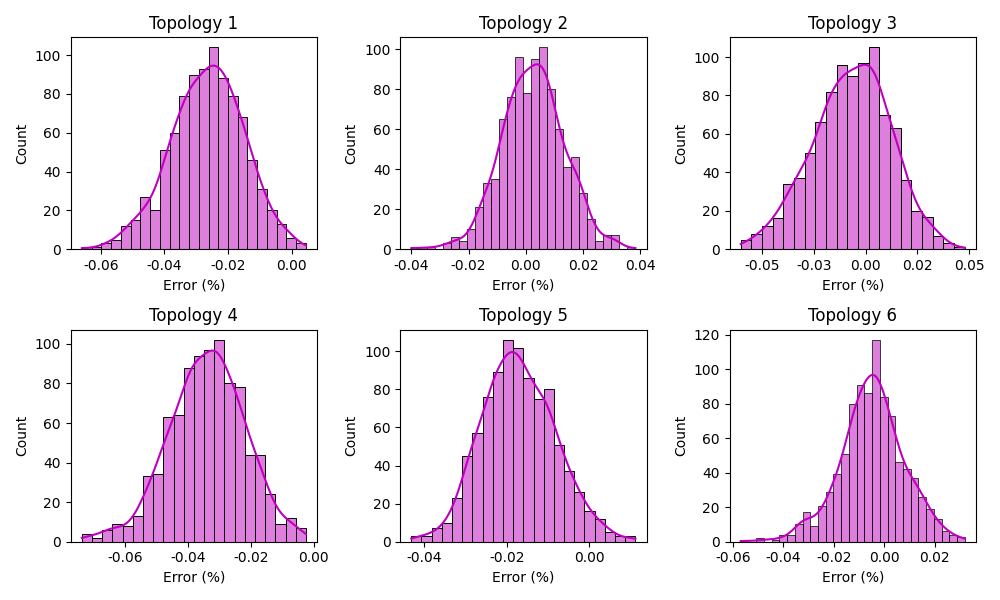
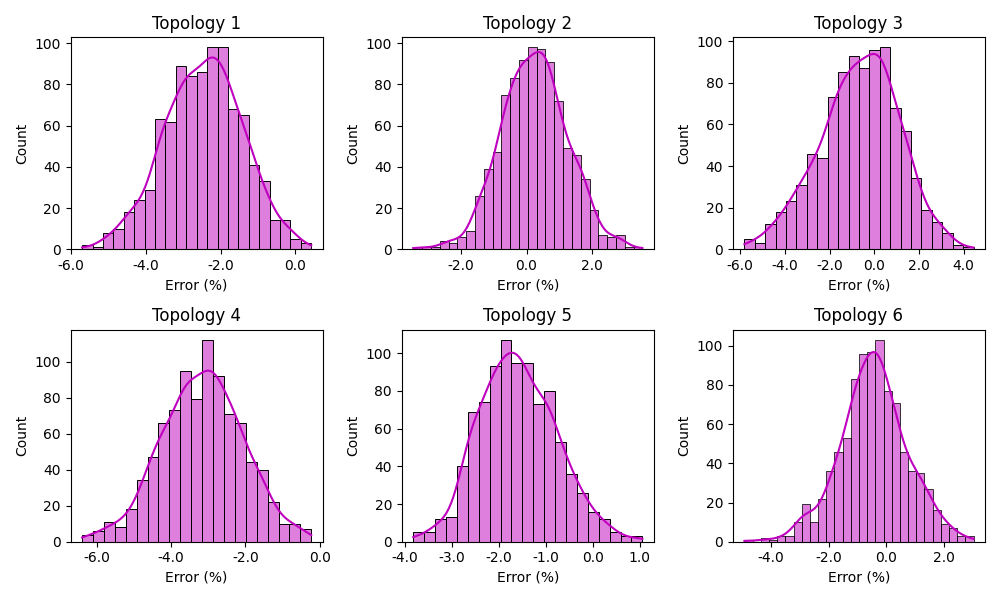
Updated Topologies Distribution Image

diff --git a/PostProcessing1.py b/PostProcessing1.py
@@ -106,13 +106,13 @@ for i in range(0, rows):
             TopologyDataframe = pd.read_csv(TopologyFilename,sep=';')
             # data visualization
             ax2[i,j].set_title(label = model_top, fontsize = 12)
-            ax2[i,j] = sns.histplot(np.array(TopologyDataframe['Keq/Kpm_est'])-np.array(TopologyDataframe['Keq/Kpm_teo']),
+            ax2[i,j] = sns.histplot(100*(np.array(TopologyDataframe['Keq/Kpm_est'])-np.array(TopologyDataframe['Keq/Kpm_teo']))/np.array(TopologyDataframe['Keq/Kpm_teo']),
                                         color = 'm',
                                         stat = "count", common_norm=False, kde = True,
                                         ax = ax2[i, j])
             ax2[i,j].set_ylabel(ylabel = "Count", fontsize = 10)
             ax2[i,j].set_xlabel(xlabel = 'Error (%)', fontsize = 10)
-            ax2[i,j].xaxis.set_major_formatter(ticker.FormatStrFormatter('%.2f'))
+            ax2[i,j].xaxis.set_major_formatter(ticker.FormatStrFormatter('%.1f'))
                   
         else:
             break
